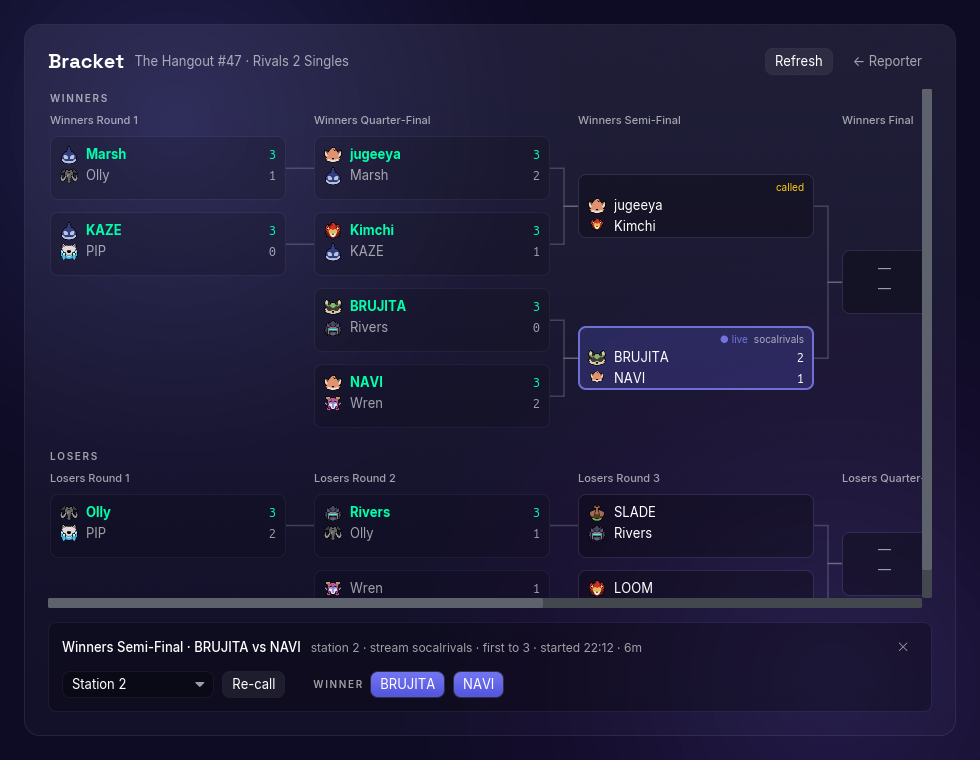
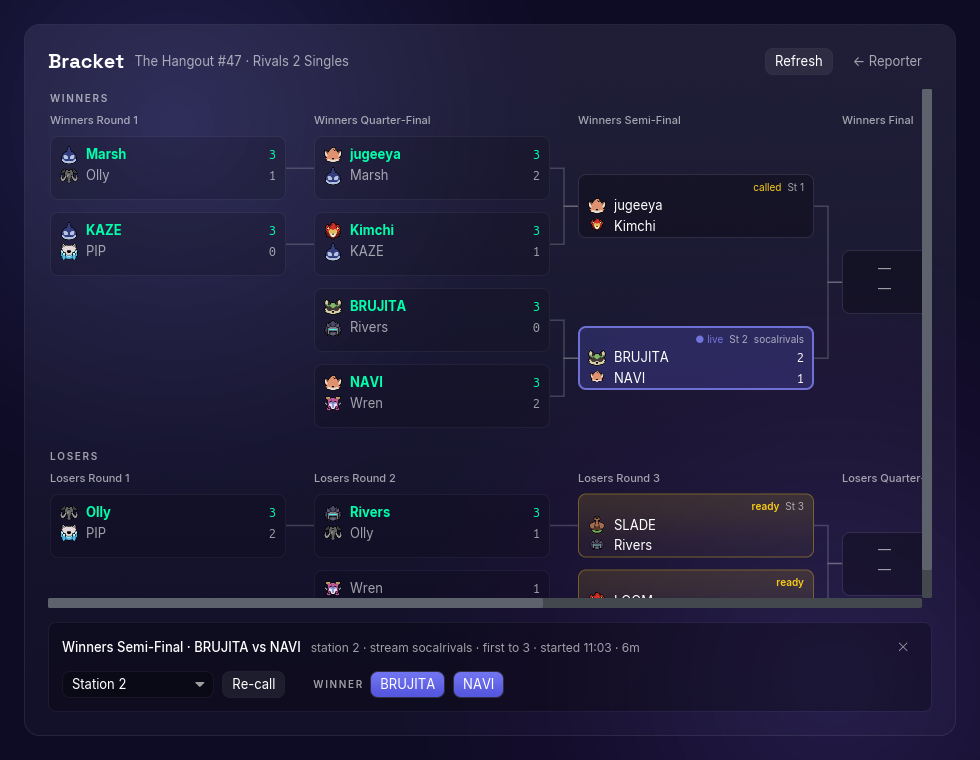
Bracket: station on unfinished sets, callout for startable ones
The station came off the cards earlier because across a whole tree it was
noise. That is true of a set that has been PLAYED — where it is history
nobody is looking for — but not of one that is live or upcoming, where it is
the thing a TO walks to. So it is back on anything not yet complete.

A set with both seats filled that nobody has called is the state a TO is
actually scanning for, and it looked identical to a set still waiting on an
earlier round. Those now render amber with a `ready` chip — warm rather than
accent-coloured, so they stay distinguishable at a glance from the live set's
indigo.

README: the single bracket screenshot becomes a three-state gallery
(mid-event / not started on start.gg / finished) using <details> blocks,
which is as close to click-through-with-captions as GitHub markdown gets.
seed-bracket.py takes a variant argument to produce all three, and native.sh
renders them. The mid-event shot now carries a table naming every card state.

Also drops a claim in the intro that no longer holds — "naming a winner is
always an explicit click, nothing ever advances the bracket on its own" — now
that auto-report ships on.

diff --git a/scripts/screenshots/seed-bracket.py b/scripts/screenshots/seed-bracket.py
@@ -22,6 +22,8 @@ import json
 import sys
 
 profile, now = sys.argv[1], int(sys.argv[2])
+# live (default) | unstarted | done — the three shapes the README shows.
+variant = sys.argv[3] if len(sys.argv) > 3 else "live"
 
 COMPLETED, CREATED, ONGOING, CALLED = 3, 1, 2, 6
 
@@ -110,7 +112,9 @@ add("l-c", "M", -2, "Losers Round 2", "E8", "E5", winner="E5", score=(1, 3),
     state=COMPLETED, station=2, started=now - 44 * m, ended=now - 26 * m)
 
 # Seeded and callable: nobody has assigned these yet.
-add("l-d", "N", -3, "Losers Round 3", "E6", "E7", feeds=(None, "l-b"))
+# Both seats filled, nobody has called them: these render as "ready", the
+# state a TO is scanning for. One already sits at a free setup.
+add("l-d", "N", -3, "Losers Round 3", "E6", "E7", feeds=(None, "l-b"), station=3)
 add("l-e", "O", -3, "Losers Round 3", "E5", "E9", feeds=("l-c", None))
 
 add("l-f", "P", -4, "Losers Quarter-Final", None, None, feeds=("l-d", "l-e"))
@@ -135,5 +139,50 @@ seed = {
         "sets": sets,
     },
 }
-json.dump(seed, open(profile + "/bracket-seed.json", "w"))
-print("seeded bracket fixture in", profile)
+if variant == "unstarted":
+    # Nothing has been started on start.gg: every set is a placeholder, no
+    # scores, no stations. This is what a TO sees before the first call.
+    for st in sets:
+        st["preview"] = True
+        st["state"] = CREATED
+        st["station"] = None
+        st["stream"] = None
+        st["winner_id"] = None
+        st["started_at"] = None
+        st["completed_at"] = None
+        for sl in st["slots"]:
+            sl["score"] = None
+            sl["character"] = None
+    # Only the sets seeded from entry have players before a bracket runs.
+    seeded_from_entry = {"w-a", "w-b", "w-c", "w-d", "w-e", "w-f", "l-a"}
+    for st in sets:
+        if st["id"] not in seeded_from_entry:
+            for sl in st["slots"]:
+                sl["entrant_id"] = None
+                sl["name"] = None
+    seed["bracket"]["selected"] = "w-a"
+
+elif variant == "done":
+    # Everything played out. Nothing is actionable; the tree is a record.
+    finals = {"w-i": ("E3", "E1", (3, 1)), "w-j": ("E3", "E5", (3, 2)),
+              "l-f": ("E5", "E6", (3, 0)), "l-g": ("E5", "E9", (3, 1)),
+              "l-h": ("E5", "E1", (3, 2))}
+    for st in sets:
+        st["state"] = COMPLETED
+        st["station"] = st["station"] or 1
+        if st["id"] in finals:
+            w, l, (a, b) = finals[st["id"]]
+            st["winner_id"] = w
+            st["slots"] = [
+                {"entrant_id": w, "name": NAMES[w], "score": a,
+                 "character": CHARS[w], "prereq_set_id": st["slots"][0]["prereq_set_id"]},
+                {"entrant_id": l, "name": NAMES[l], "score": b,
+                 "character": CHARS[l], "prereq_set_id": st["slots"][1]["prereq_set_id"]},
+            ]
+        elif st["winner_id"] is None:
+            st["winner_id"] = st["slots"][0]["entrant_id"]
+    seed["bracket"]["selected"] = None
+
+name = "bracket-seed.json" if variant == "live" else f"bracket-{variant}-seed.json"
+json.dump(seed, open(profile + "/" + name, "w"))
+print("seeded", variant, "bracket fixture in", profile)

diff --git a/crates/station-app/src/ui/bracket.rs b/crates/station-app/src/ui/bracket.rs
@@ -633,10 +633,14 @@ fn set_card(set: &BracketSet, is_selected: bool) -> Element<'_, Msg> {
         .into()
     };
 
-    // Top line: only whether this set needs attention. No station and no set
-    // label — across a full bracket both are noise, and both read as an id
-    // that means something it doesn't. The detail bar carries them for the
-    // one set actually selected.
+    // Top line: where this set is and whether it needs attention. No set
+    // label — across a full bracket it is noise, and it reads as an id that
+    // means something it doesn't.
+    //
+    // The station shows only on sets that HAVEN'T finished: on a played set
+    // it is history nobody is looking for, but on a live or upcoming one it
+    // is the thing a TO walks to.
+    let ready = set.is_startable();
     let mut top = row![Space::new().width(Length::Fill)]
         .spacing(6)
         .align_y(Alignment::Center);
@@ -644,6 +648,18 @@ fn set_card(set: &BracketSet, is_selected: bool) -> Element<'_, Msg> {
         top = top.push(text("● live").size(10).color(theme::ACCENT_HOVER));
     } else if set.is_called() {
         top = top.push(text("called").size(10).color(theme::TEXT_WARNING));
+    } else if ready {
+        top = top.push(
+            text("ready")
+                .size(10)
+                .font(theme::FONT_BODY_SEMIBOLD)
+                .color(theme::TEXT_WARNING),
+        );
+    }
+    if !set.is_complete() {
+        if let Some(n) = set.station {
+            top = top.push(text(format!("St {n}")).size(10).color(theme::TEXT_MUTED));
+        }
     }
     if let Some(s) = &set.stream {
         top = top.push(text(s.clone()).size(10).color(theme::TEXT_MUTED));
@@ -655,6 +671,8 @@ fn set_card(set: &BracketSet, is_selected: bool) -> Element<'_, Msg> {
         theme::bracket_set_live
     } else if set.is_complete() {
         theme::bracket_set_done
+    } else if ready {
+        theme::bracket_set_ready
     } else {
         theme::bracket_set
     };
@@ -694,6 +712,9 @@ pub struct Seed {
 #[derive(Debug, Clone, Default, serde::Deserialize)]
 pub struct SeedSet {
     pub id: String,
+    /// Placeholder set from a bracket start.gg hasn't started yet.
+    #[serde(default)]
+    pub preview: bool,
     #[serde(default)]
     pub state: i64,
     #[serde(default)]
@@ -753,7 +774,7 @@ pub fn apply_seed(app: &mut App, seed: Seed) {
         .into_iter()
         .map(|s| BracketSet {
             id: s.id,
-            preview: false,
+            preview: s.preview,
             state: s.state,
             round: s.round,
             identifier: s.identifier,

diff --git a/crates/station-app/src/theme.rs b/crates/station-app/src/theme.rs
@@ -479,6 +479,31 @@ pub fn bracket_set_done(_theme: &Theme, status: button::Status) -> button::Style
     )
 }
 
+/// Both seats filled, nobody has called it: the set a TO should be handing
+/// to a free setup next. Warm rather than accent-coloured so it reads as
+/// "needs you" against the live set's indigo, and so the two are still
+/// distinguishable at a glance across a whole tree.
+pub fn bracket_set_ready(_theme: &Theme, status: button::Status) -> button::Style {
+    set_card(
+        Some(vertical_gradient(
+            Color {
+                a: 0.13,
+                ..TEXT_WARNING
+            },
+            Color {
+                a: 0.04,
+                ..TEXT_WARNING
+            },
+        )),
+        Color {
+            a: 0.40,
+            ..TEXT_WARNING
+        },
+        1.0,
+        status,
+    )
+}
+
 /// The selected node, whatever its state — a heavier accent ring, so it stays
 /// findable after the action bar below has pushed the tree around.
 pub fn bracket_set_selected(_theme: &Theme, status: button::Status) -> button::Style {

diff --git a/crates/station-app/src/bracket/fetch.rs b/crates/station-app/src/bracket/fetch.rs
@@ -156,6 +156,13 @@ impl BracketSet {
         self.slots.iter().all(|s| s.entrant_id.is_some())
     }
 
+    /// Both seats filled and nobody has called it yet — the set a TO should
+    /// be putting on the next free setup. A preview set counts: starting one
+    /// is what brings the bracket to life.
+    pub fn is_startable(&self) -> bool {
+        self.is_ready() && !self.is_complete() && !self.is_ongoing() && !self.is_called()
+    }
+
     pub fn winner_slot(&self) -> Option<usize> {
         let w = self.winner_id.as_deref()?;
         self.slots

diff --git a/README.md b/README.md
@@ -21,8 +21,10 @@ widget. The full design is in `rivals-station-reporter-architecture.md`
 - **Operator** — the TO machine. Runs the LAN hub every station posts to and
   is the only PC that talks to start.gg (the API token never leaves it).
   Gets the all-stations console: live scores stream to the bracket
-  automatically, but **naming a winner is always an explicit click** —
-  nothing ever advances the bracket on its own.
+  automatically, and a set that finishes **unambiguously** reports itself (see
+  Auto-report — on by default, and strict about what qualifies). Anything it
+  can't be sure of still waits for your click, and anything it got wrong is
+  fixable after the fact with `edit result`.
 - **Both** — one PC doing both jobs.
 
 There's also a built-in **Tag Installer** (header → Tag Installer): before
@@ -87,15 +89,53 @@ sets are grouped separately, each with its own station AND stream picker (a
 set can sit at a station and on a stream at once); for a startable set,
 picking and clicking Start Match happens as a single action.
 
-![Bracket](docs/screenshots/bracket.png)
+### The Bracket screen, in three states
 
-The Bracket screen: the whole tree, so nobody has to keep start.gg's page
-open on a second monitor. Each set sits level with the sets that feed it,
-with the lines drawn in, so it reads as a bracket rather than a grid of
-rounds. Finished sets recede, the live one is highlighted,
-called-but-not-started is flagged, and empty seats show what's still waiting
-on an earlier round. Clicking any set opens the bar underneath — assign a
-station, call the match, or report a winner without leaving the app.
+<details open>
+<summary><b>Mid-event</b> — what a TO looks at between calls</summary>
+
+![Bracket, mid-event](docs/screenshots/bracket.png)
+
+Each set sits level with the sets that feed it, with the lines drawn in, so
+it reads as a bracket rather than a grid of rounds. Every card state is
+visible at once:
+
+| | |
+|---|---|
+| **indigo, `● live`** | being played right now |
+| **amber, `ready`** | both seats filled, nobody has called it — the set to hand to the next free setup |
+| `called` | assigned to a setup, not started yet |
+| dimmed | finished; the winner's tag is green and their score bold |
+| `—` seats | still waiting on an earlier round |
+
+The station (`St 2`) shows only on sets that haven't finished — on a played
+set it's history, on an upcoming one it's where to walk. Selecting a set
+opens the bar underneath: assign a station, start the match, or report a
+winner.
+</details>
+
+<details>
+<summary><b>Not started on start.gg</b> — every set a placeholder</summary>
+
+![Bracket, not yet started](docs/screenshots/bracket-unstarted.png)
+
+Before anyone calls the first match, start.gg holds the sets as placeholders.
+The banner says so, and the first-round sets show as `ready`. Starting any one
+of them materialises the whole phase — the same thing start.gg's own page does
+— and the app rebinds to the real set ids it gets back. Reporting is the one
+thing that needs the bracket live first, so the bar offers **Start match** and
+says why the winner buttons aren't there.
+</details>
+
+<details>
+<summary><b>Finished</b> — the whole event as a record</summary>
+
+![Bracket, finished](docs/screenshots/bracket-done.png)
+
+Every set played out. Nothing is actionable, so nothing is highlighted and no
+stations are shown; the tree is just the result, winners in green with their
+characters and scores.
+</details>
 
 ![Station, idle between sets](docs/screenshots/station-idle.png)
 
